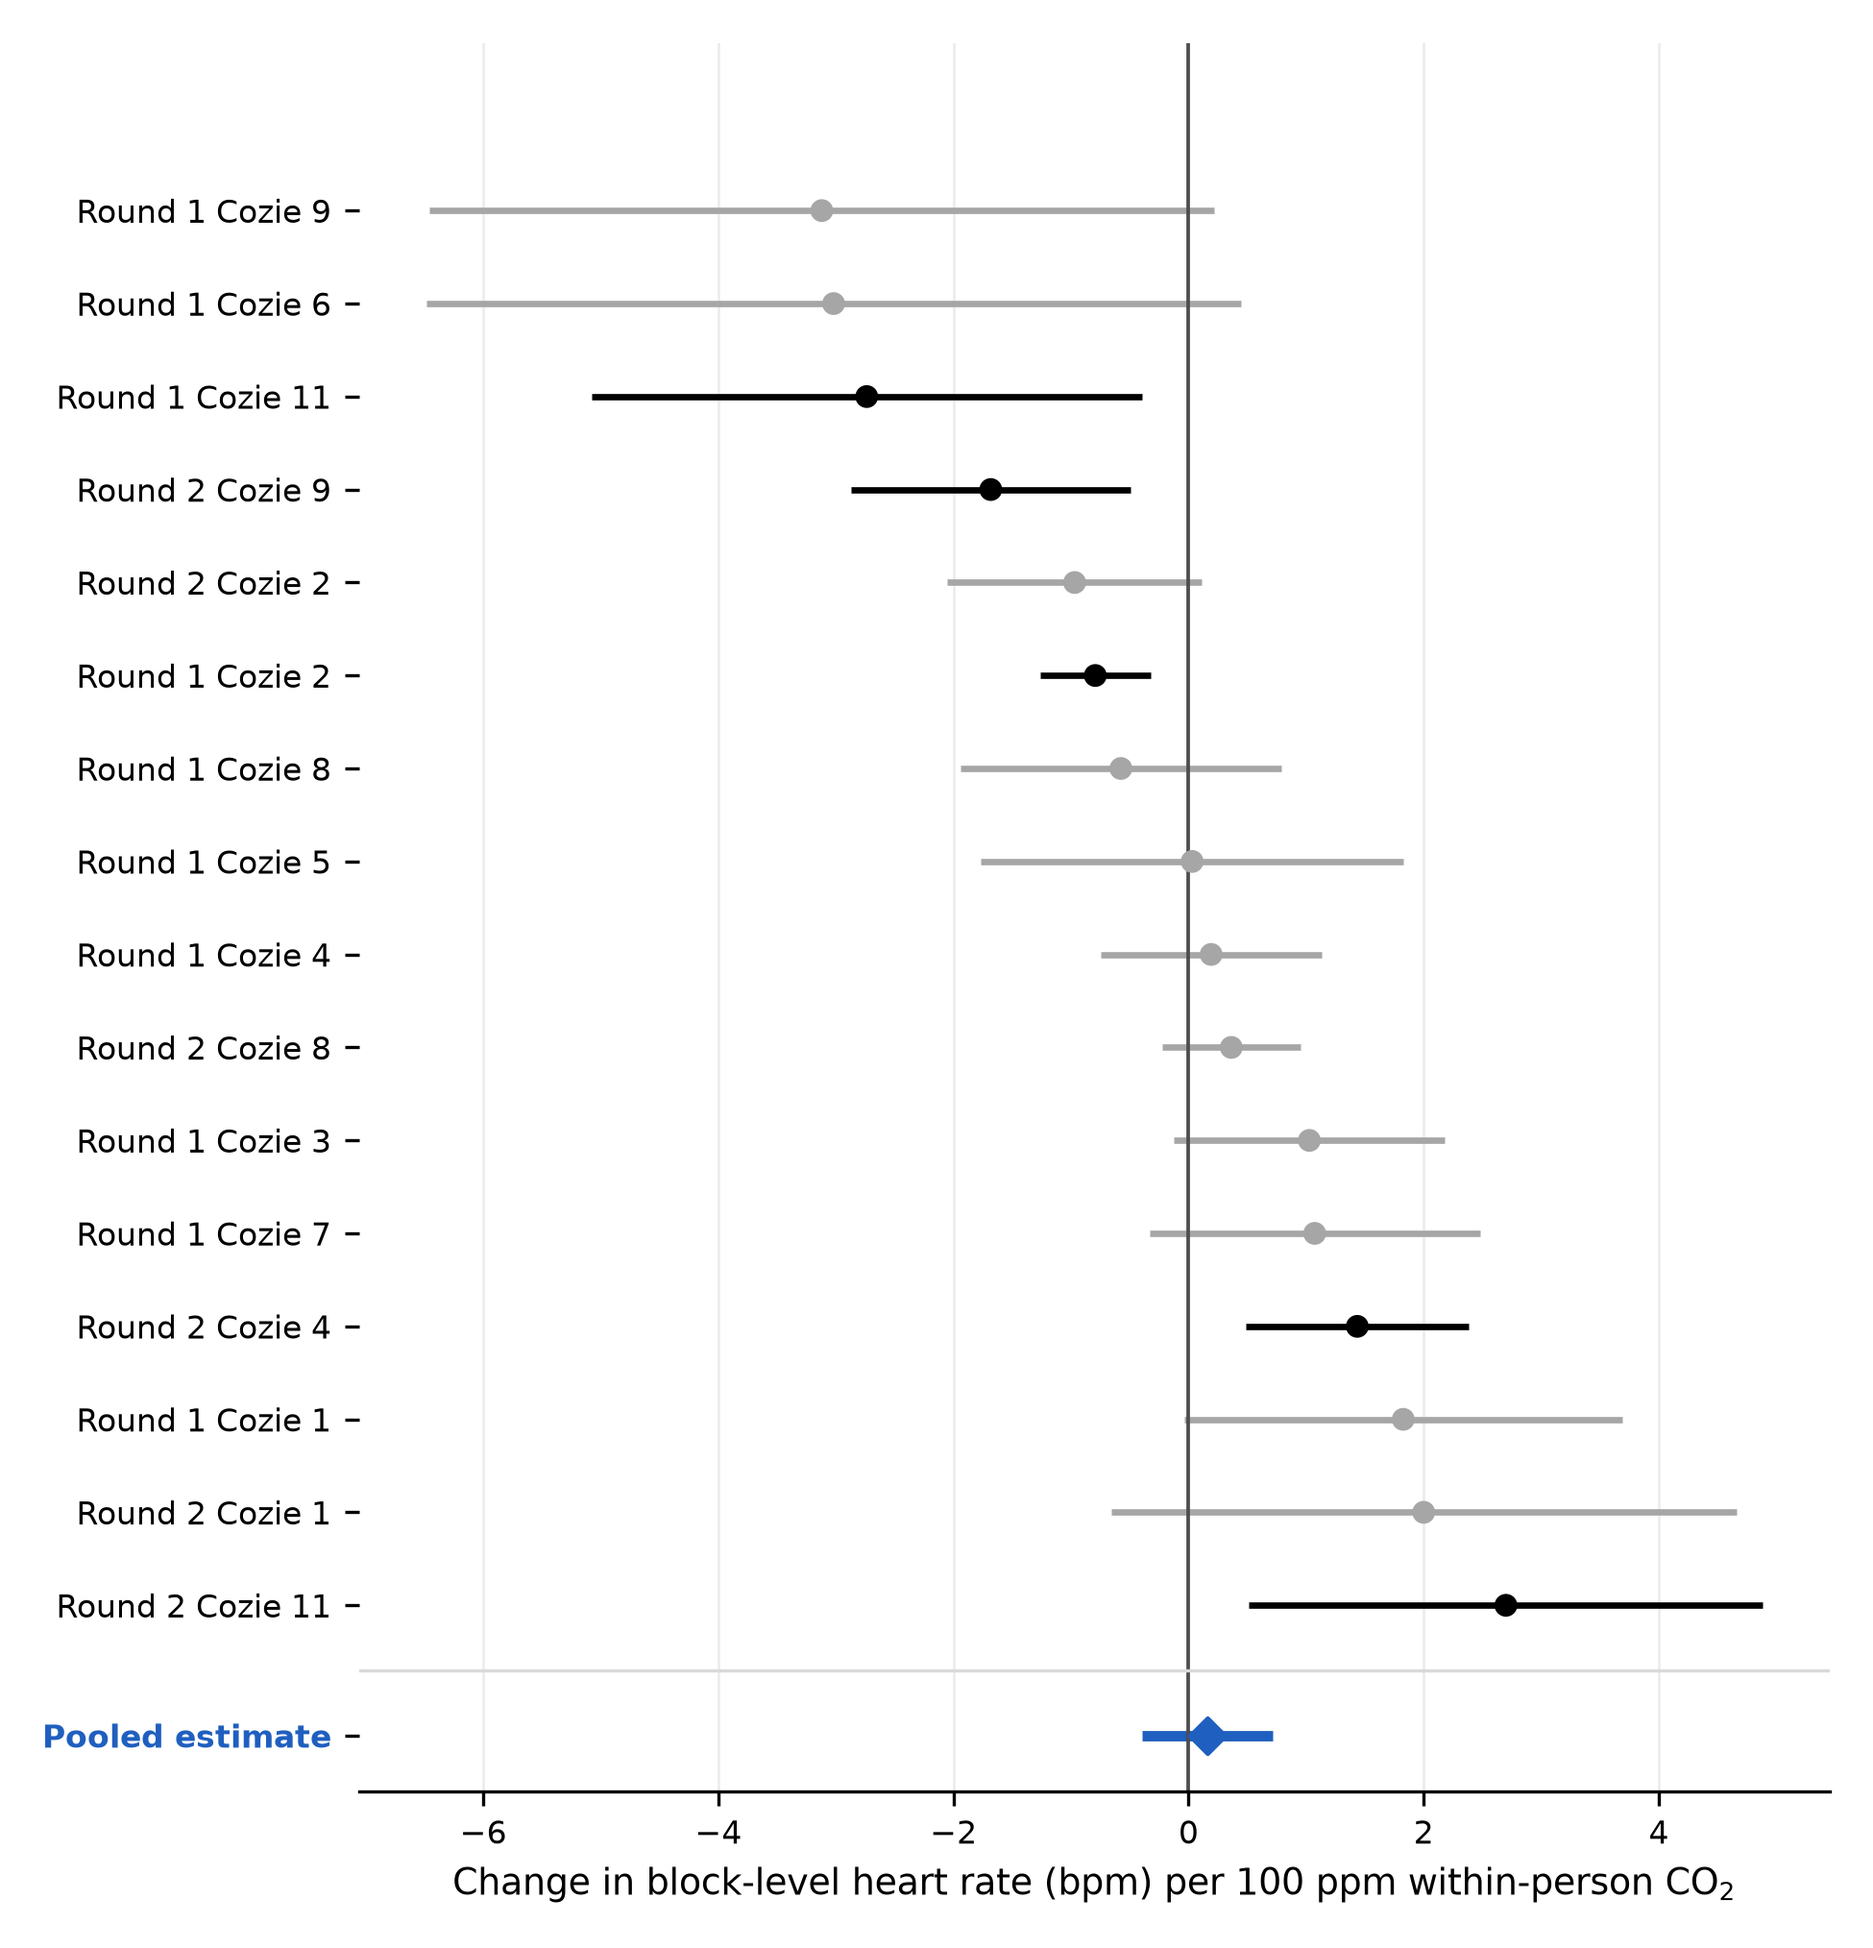
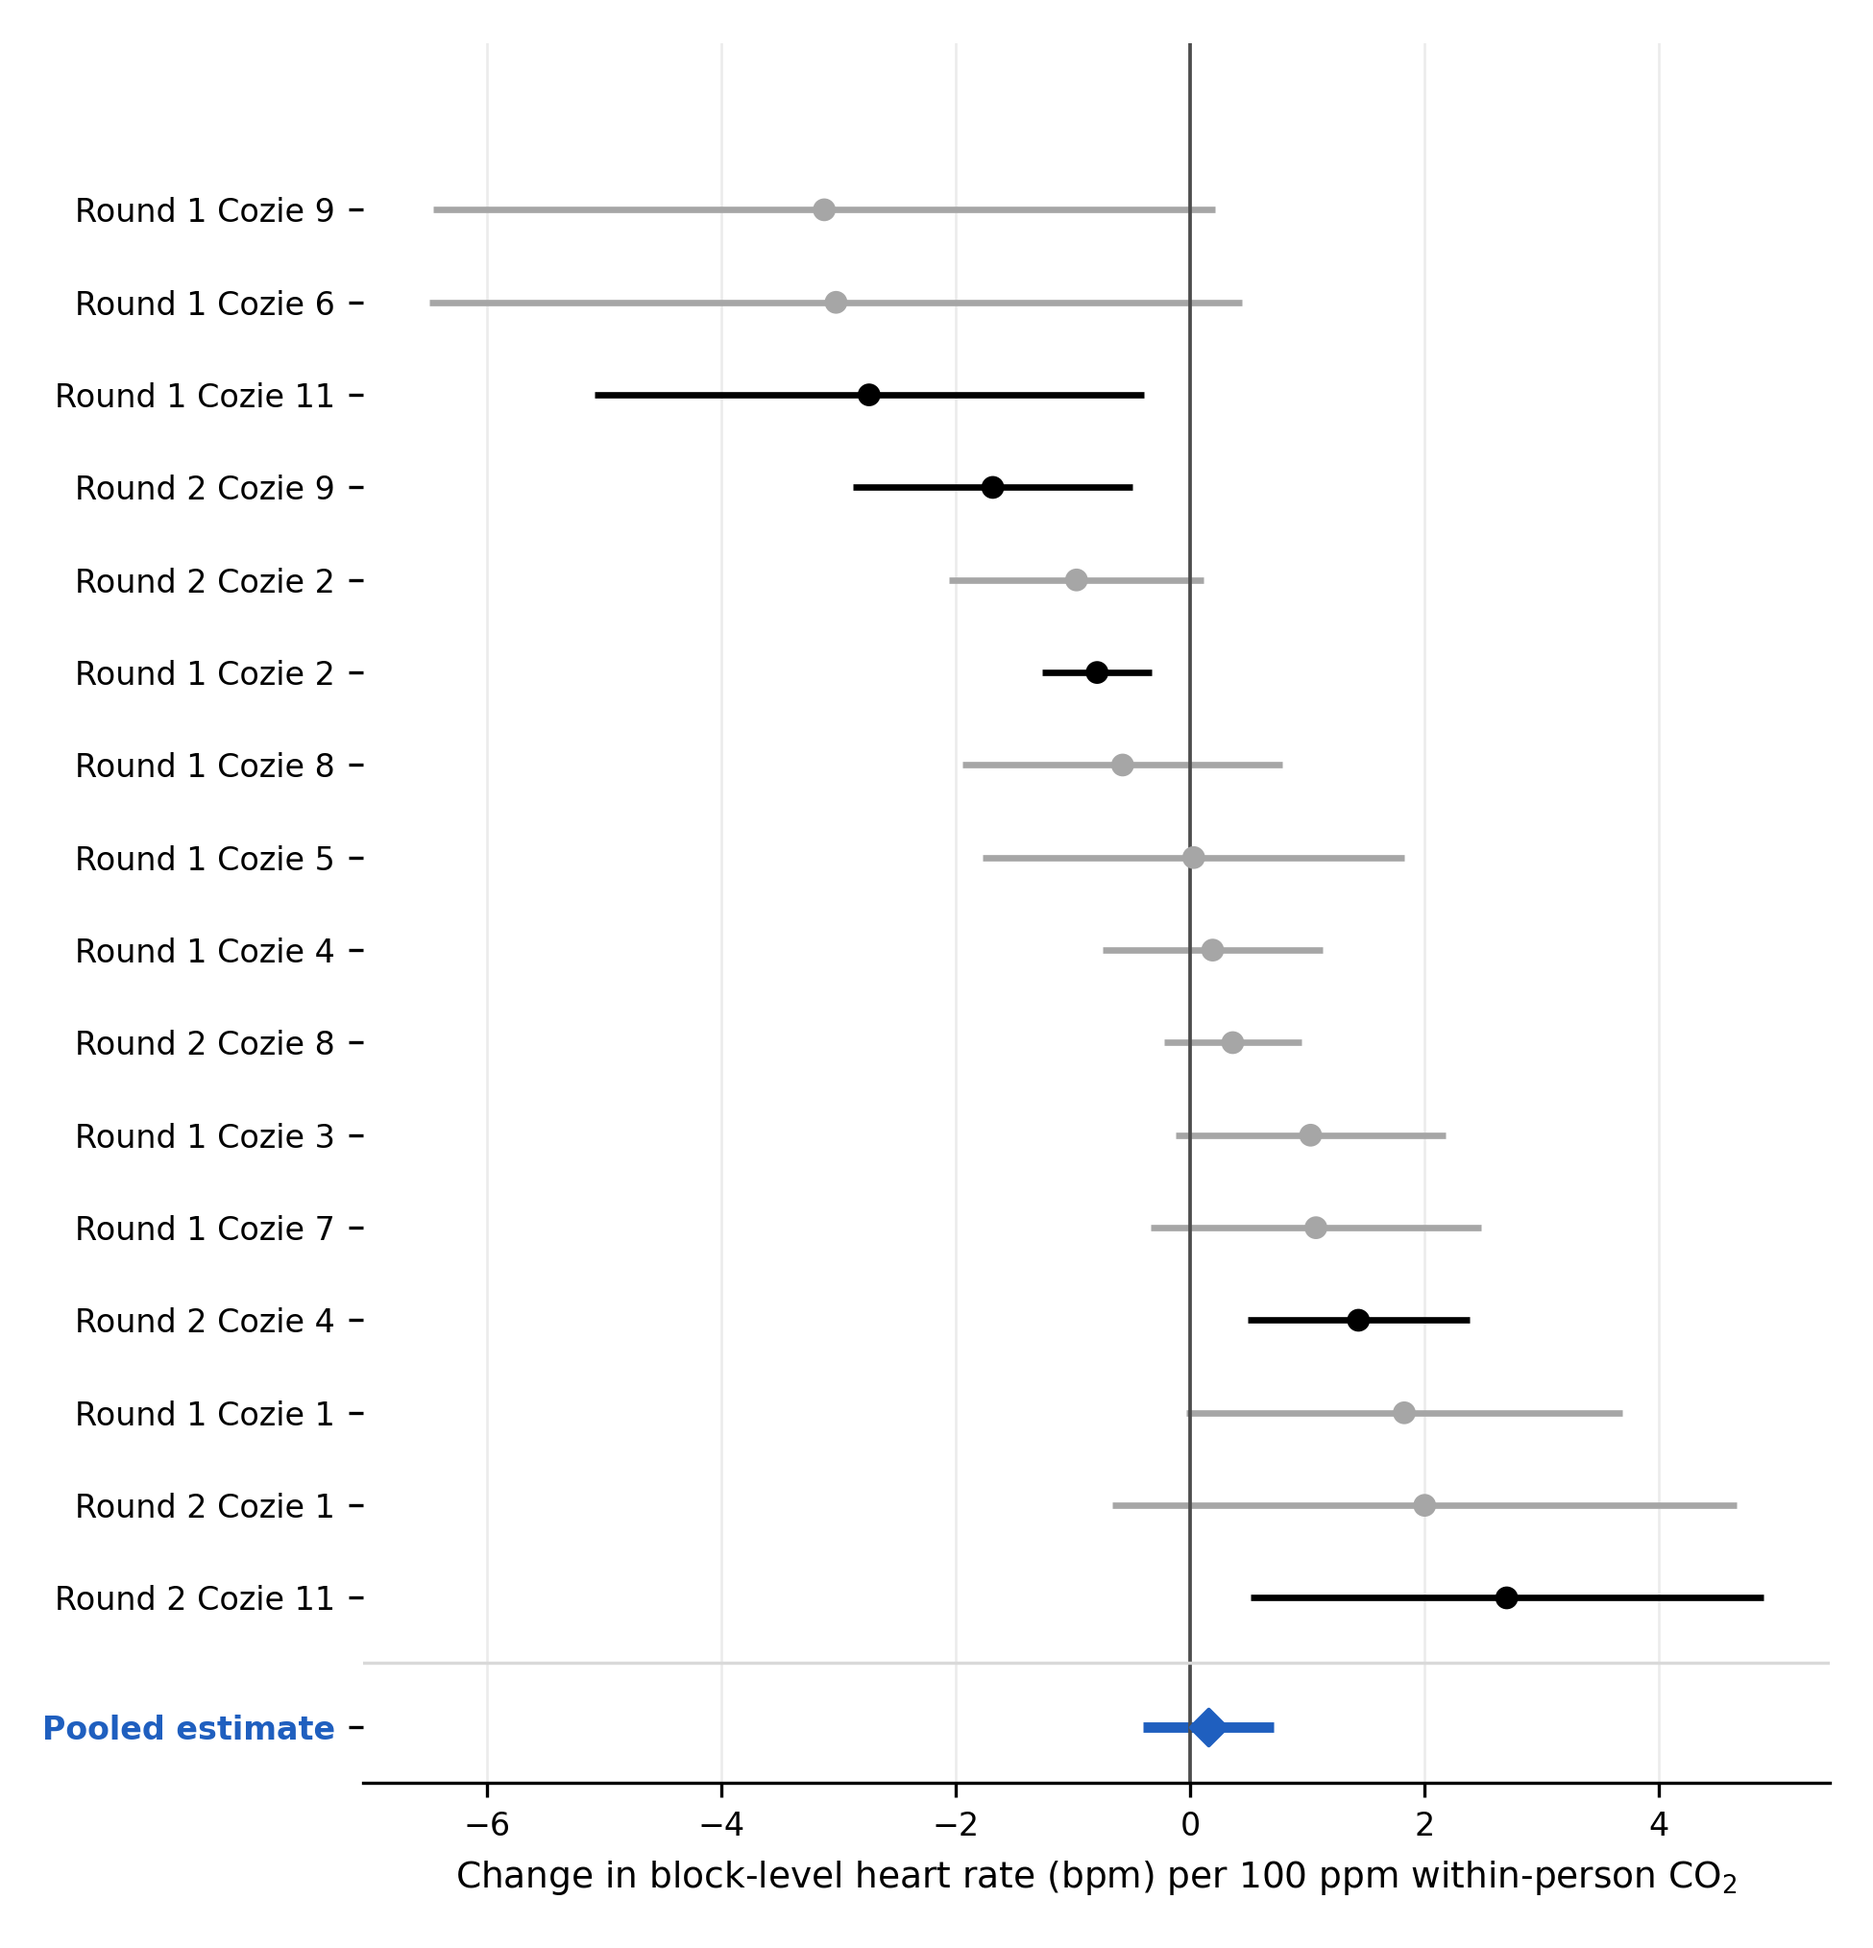
Reanalysis Updated with co2 images

diff --git a/src/Reanalysis/make_figures.py b/src/Reanalysis/make_figures.py
@@ -1,18 +1,18 @@
 """
-Figures for the revised manuscript, drawn from the tables that reanalysis_final.py produces.
+Figures for the revised manuscript , drawn from my reanalysis output tables.
 
-I run this from the repository root once reanalysis_final.py has finished:
+Run from the repository root, after reanalysis_final.py:
     python -m src.Reanalysis.make_figures
-Option 2 in main.py runs both scripts in the correct order.
 
-The script writes Fig3_participant_slopes.png, FigA3_primary_model_diagnostics.png,
-FigA1_environmental_variance_occupied.png, and the A5 and A6 tables to
-Generated_Images/reanalysis_final/.
+Writes Fig3_participant_slopes.png, FigA3_primary_model_diagnostics.png,
+FigA1_environmental_variance_occupied.png, and the A5 and A6 tables
+to Generated_Images/reanalysis_final/.
 """
 import matplotlib
 
 matplotlib.use("Agg")
 import matplotlib.pyplot as plt
+import matplotlib.ticker
 import pandas as pd
 
 from config import OUTPUT_IMAGE_DIR
@@ -21,21 +21,26 @@ OUT = OUTPUT_IMAGE_DIR / "reanalysis_final"
 
 
 def figure3_participant_slopes():
-    """Forest plot of the CO2 slope for each participant, with the pooled estimate from
-    the primary model shown at the bottom. Participants whose interval excludes zero
-    are drawn in black, and the others in grey."""
+    # Sorting these so we can clearly see the extreme individual differences I found in the reanalysis
     per = pd.read_csv(OUT / "A2_participant_slopes.csv").sort_values("slope_per_100ppm", ascending=False)
     models = pd.read_csv(OUT / "A1_heart_rate_models.csv")
+
+    # Grabbing the new pooled estimate (+0.16) since I dropped the old rolling-window GEE
     pooled = models[models.model.str.contains("PRIMARY")].iloc[0]
 
     n = len(per)
+    # Fixed the missing asterisk from the earlier diff
     fig, ax = plt.subplots(figsize=(6.5, 0.32 * (n + 2) + 1.0))
     y = list(range(2, n + 2))
+
+    # Highlighting which individual slopes are actually significant (CI excludes zero)
     excludes_zero = (per.ci_low > 0) | (per.ci_high < 0)
     colours = ["black" if e else "0.65" for e in excludes_zero]
 
     ax.hlines(y, per.ci_low, per.ci_high, colors=colours, linewidth=1.6)
     ax.scatter(per.slope_per_100ppm, y, c=colours, s=22, zorder=3)
+
+    # Plotting my pooled estimate at the bottom
     ax.hlines(0.6, pooled.ci_low, pooled.ci_high, colors="#1f5fbf", linewidth=2.6)
     ax.scatter([pooled.beta], [0.6], marker="D", color="#1f5fbf", s=40, zorder=3)
     ax.axvline(0, color="0.3", linewidth=0.9)
@@ -50,6 +55,7 @@ def figure3_participant_slopes():
     ax.tick_params(axis="x", labelsize=8)
     ax.grid(axis="x", color="0.92", linewidth=0.6)
     ax.set_axisbelow(True)
+
     for side in ("top", "right", "left"):
         ax.spines[side].set_visible(False)
 
@@ -59,20 +65,20 @@ def figure3_participant_slopes():
 
 
 def figure_a3_diagnostics():
-    """Residual diagnostics and variance inflation factors for the primary heart rate
-    model (random intercept and slope). I refit the model here because the residuals
-    are not saved by reanalysis_final.py."""
+    """Residual diagnostics and VIFs for my new primary heart rate model (LMM with random intercepts/slopes)."""
     import numpy as np
     import statsmodels.api as sm
     from scipy import stats
     from statsmodels.stats.outliers_influence import variance_inflation_factor
     from src.Reanalysis.reanalysis_final import HR_FORMULA, fit_mixed, load_cozie, physiological_datasets
 
+    # Building the exact dataset used in the paper
     _, prim, _ = physiological_datasets(load_cozie())
     res = fit_mixed(HR_FORMULA, prim, "co2_w")
     fitted = res.fittedvalues
     resid = res.resid
 
+    # Reviewer 3 wanted robustness checks, so I'm generating the Q-Q and residual plots here
     fig, (ax1, ax2) = plt.subplots(1, 2, figsize=(8, 3.6))
     (osm, osr), (slope, intercept, _) = stats.probplot(resid, dist="norm")
     ax1.scatter(osm, osr, s=6, color="0.35")
@@ -80,11 +86,13 @@ def figure_a3_diagnostics():
     ax1.set_xlabel("Theoretical quantiles", fontsize=9)
     ax1.set_ylabel("Residual quantiles (bpm)", fontsize=9)
     ax1.set_title("Normal Q-Q plot of residuals", fontsize=9)
+
     ax2.scatter(fitted, resid, s=6, color="0.35", alpha=0.6)
     ax2.axhline(0, color="#1f5fbf", linewidth=1.0)
     ax2.set_xlabel("Fitted heart rate (bpm)", fontsize=9)
     ax2.set_ylabel("Residual (bpm)", fontsize=9)
     ax2.set_title("Residuals against fitted values", fontsize=9)
+
     for ax in (ax1, ax2):
         ax.tick_params(labelsize=8)
         for side in ("top", "right"):
@@ -93,8 +101,7 @@ def figure_a3_diagnostics():
     fig.savefig(OUT / "FigA3_primary_model_diagnostics.png", dpi=300)
     plt.close(fig)
 
-    # Variance inflation factors for the fixed effect predictors, to see whether
-    # any of them are strongly collinear.
+    # Checking for collinearity
     X = prim[["co2_w", "co2_b", "temp_w", "temp_b", "steps", "hour_c"]].copy()
     X["hour_c_sq"] = X.hour_c ** 2
     X = sm.add_constant(X)
@@ -107,15 +114,10 @@ def figure_a3_diagnostics():
 
 
 def figure_a1_variance_decomposition():
-    """Shows how much of the variance in each environmental variable lies between
-    participants and how much lies within them, using the same occupied working blocks
-    as the primary heart rate model. The within share is the variance of the deviations
-    from each participant's mean, divided by the total variance."""
+    """Between- and within-person variance shares of the environmental variables in the
+    occupied working blocks. I need this to justify my Mundlak centering approach."""
     from src.Reanalysis import reanalysis_final as R
 
-    # I repeat the occupancy filter from reanalysis_final.py here, because this figure
-    # also needs humidity and noise, and make_blocks there averages only heart rate,
-    # CO2, temperature and steps.
     df = pd.read_csv(R.DATA_DIR / "Master_Cozie_Centered.csv", low_memory=False)
     df["t"] = pd.to_datetime(df["index"], format="mixed", utc=True).dt.tz_convert(R.TZ)
     df = df.rename(columns={"30m_Avg_CO2 ppm": "co2", "30m_Avg_Temperature °C": "temp",
@@ -123,6 +125,8 @@ def figure_a1_variance_decomposition():
                             "HR_Pre_10m_Avg": "hr", "Steps_Pre_10m_Sum": "steps"})
     df = df.dropna(subset=["hr", "co2", "temp", "steps"])
     hour = df["t"].dt.hour
+
+    # Strict filtering for occupied desk time only
     occ = df[(df["t"].dt.dayofweek < 5) & (hour >= R.WORK_START_HOUR) & (hour < R.WORK_END_HOUR)
              & (df["Is_Recovery_Halo"] == 0) & (df["Last_Activity_Context"] == R.PRESENT_CONTEXT)]
     blocks = (occ.groupby(["ID", pd.Grouper(key="t", freq=R.BLOCK)])[["co2", "temp", "hum", "noise"]]
@@ -132,11 +136,14 @@ def figure_a1_variance_decomposition():
 
     labels = {"co2": "CO$_2$", "temp": "Temperature", "hum": "Relative humidity", "noise": "Noise"}
     rows = []
+
     for col, label in labels.items():
         d = blocks.dropna(subset=[col])
+        # Calculating the within-person slice. Added the missing asterisks here.
         within = 100 * (d[col] - d.groupby("ID")[col].transform("mean")).var() / d[col].var()
         rows.append({"variable": label.replace("$_2$", "2"), "pct_between": 100 - within,
                      "pct_within": within, "n_blocks": len(d), "n_participants": d.ID.nunique()})
+
     table = pd.DataFrame(rows)
     table.to_csv(OUT / "A6_environmental_variance_shares.csv", index=False)
 
@@ -146,9 +153,11 @@ def figure_a1_variance_decomposition():
     ax.barh(names, tb.pct_between, color="#4C72B0", edgecolor="white", label="Between person (dwelling level)")
     ax.barh(names, tb.pct_within, left=tb.pct_between, color="#C44E52", edgecolor="white",
             label="Within person (fluctuation)")
+
     for i, (b, w) in enumerate(zip(tb.pct_between, tb.pct_within)):
         ax.text(b / 2, i, f"{b:.1f}%", va="center", ha="center", color="white", fontweight="bold", fontsize=9)
         ax.text(b + w / 2, i, f"{w:.1f}%", va="center", ha="center", color="white", fontweight="bold", fontsize=9)
+
     ax.set_xlim(0, 100)
     ax.set_xlabel("Percentage of total variance (%)")
     ax.legend(loc="upper center", bbox_to_anchor=(0.5, -0.22), ncol=2, frameon=False, fontsize=9)
@@ -160,8 +169,83 @@ def figure_a1_variance_decomposition():
     return table
 
 
+def figure2_workday_co2():
+    """Drawing the daily workday mean CO2 available for all 20 dwellings."""
+    import seaborn as sns
+    from src.Reanalysis import reanalysis_final as R
+
+    e = pd.read_csv(R.DATA_DIR / "Master_Evening_Centered.csv", low_memory=False)
+    df = e[e["Dynamic_Avg_CO2 ppm"] > 400][["ID", "Dynamic_Avg_CO2 ppm"]].copy()
+    df["ID"] = df["ID"].astype(str)
+    key = lambda i: (int(i.split("_")[1]), int(i.split("_")[3]))
+    order = sorted(df["ID"].unique(), key=key)
+    df.groupby("ID")["Dynamic_Avg_CO2 ppm"].agg(["count", "median", "min", "max"]).loc[order].to_csv(
+        OUT / "A7_workday_co2_by_dwelling.csv")
+
+    plt.figure(figsize=(12, 6), dpi=300)
+    sns.set_theme(style="whitegrid", context="paper", font_scale=1.2)
+    sns.boxplot(data=df, x="ID", y="Dynamic_Avg_CO2 ppm", order=order, hue="ID", hue_order=order,
+                palette="flare", fliersize=4, legend=False)
+
+    # Reviewers caught my old ASHRAE label, so I changed it to "1000 ppm Reference Level"
+    plt.axhline(1000, color="#d62728", linestyle="--", linewidth=2, label="1000 ppm Reference Level")
+
+    plt.title(r"Daily $CO_2$ Exposure Ranges Across Participants", fontsize=16, fontweight="bold", pad=15)
+    plt.xlabel("Anonymized Participant ID", fontsize=12, fontweight="bold")
+    plt.ylabel(r"$CO_2$ Concentration (ppm)", fontsize=12, fontweight="bold")
+    plt.xticks(rotation=90, fontsize=9)
+    plt.legend(frameon=True, loc="upper right")
+    plt.ylim(bottom=400)
+    plt.tight_layout()
+    plt.savefig(OUT / "Fig2_workday_co2_by_dwelling.png", dpi=300, bbox_inches="tight")
+    plt.close()
+    sns.reset_defaults()
+    return df.groupby("ID")["Dynamic_Avg_CO2 ppm"].median().loc[order]
+
+
+def figure_a2_centring_illustration():
+    """This perfectly visualizes my within-person centering strategy for the appendix."""
+    import numpy as np
+    from src.Reanalysis import reanalysis_final as R
+
+    ids = [("Round_2_Cozie_1", "Low-baseline dwelling"),
+           ("Round_1_Cozie_2", "Elevated-baseline dwelling"),
+           ("Round_2_Cozie_8", "Near-reference dwelling")]
+    e = pd.read_csv(R.DATA_DIR / "Master_Evening_Centered.csv", low_memory=False)
+    ts = "Timestamp" if "Timestamp" in e.columns else "Helsinki Time"
+    e["_t"] = pd.to_datetime(e[ts], errors="coerce")
+
+    fig, axes = plt.subplots(3, 1, figsize=(9, 8), dpi=300)
+    rows = []
+    for ax, (pid, label) in zip(axes, ids):
+        s = e.loc[e.ID == pid].sort_values("_t")["Dynamic_Avg_CO2 ppm"].dropna().reset_index(drop=True)
+        m, sd = s.mean(), s.std()
+        x = np.arange(1, len(s) + 1)
+        ax.plot(x, s, color="0.35", linewidth=1.4, marker="o", markersize=3, label="Daily workday mean CO$_2$")
+        ax.axhline(m, color="black", linestyle="--", linewidth=1.5, label="Participant mean")
+        ax.fill_between(x, m, s, where=s > m, interpolate=True, color="#D55E00", alpha=0.45,
+                        label="Above participant mean")
+        ax.fill_between(x, m, s, where=s <= m, interpolate=True, color="#0072B2", alpha=0.45,
+                        label="Below participant mean")
+        ax.set_title(f"{label}: {pid} (n = {len(s)} workdays; mean {m:.0f} ppm; SD {sd:.0f} ppm)", fontsize=10)
+        ax.set_ylabel("CO$_2$ (ppm)")
+        ax.set_xlim(0.5, len(s) + 0.5)
+        ax.xaxis.set_major_locator(matplotlib.ticker.MaxNLocator(integer=True))
+        ax.grid(True, axis="y", linestyle=":", alpha=0.6)
+        rows.append({"ID": pid, "n_workdays": len(s), "mean": m, "sd": sd, "max": s.max()})
+
+    axes[0].legend(loc="upper right", fontsize=8, frameon=True)
+    axes[2].set_xlabel("Monitored workday (chronological order)")
+    fig.tight_layout()
+    fig.savefig(OUT / "FigA2_within_person_centring.png", bbox_inches="tight")
+    plt.close(fig)
+    return pd.DataFrame(rows)
+
+
 if __name__ == "__main__":
     figure3_participant_slopes()
+    print(figure_a2_centring_illustration().round(0).to_string(index=False))
     print(figure_a3_diagnostics().round(2).to_string(index=False))
     print(figure_a1_variance_decomposition().round(1).to_string(index=False))
+    print(figure2_workday_co2().round(0).to_string())
     print(f"Figures written to {OUT}")
